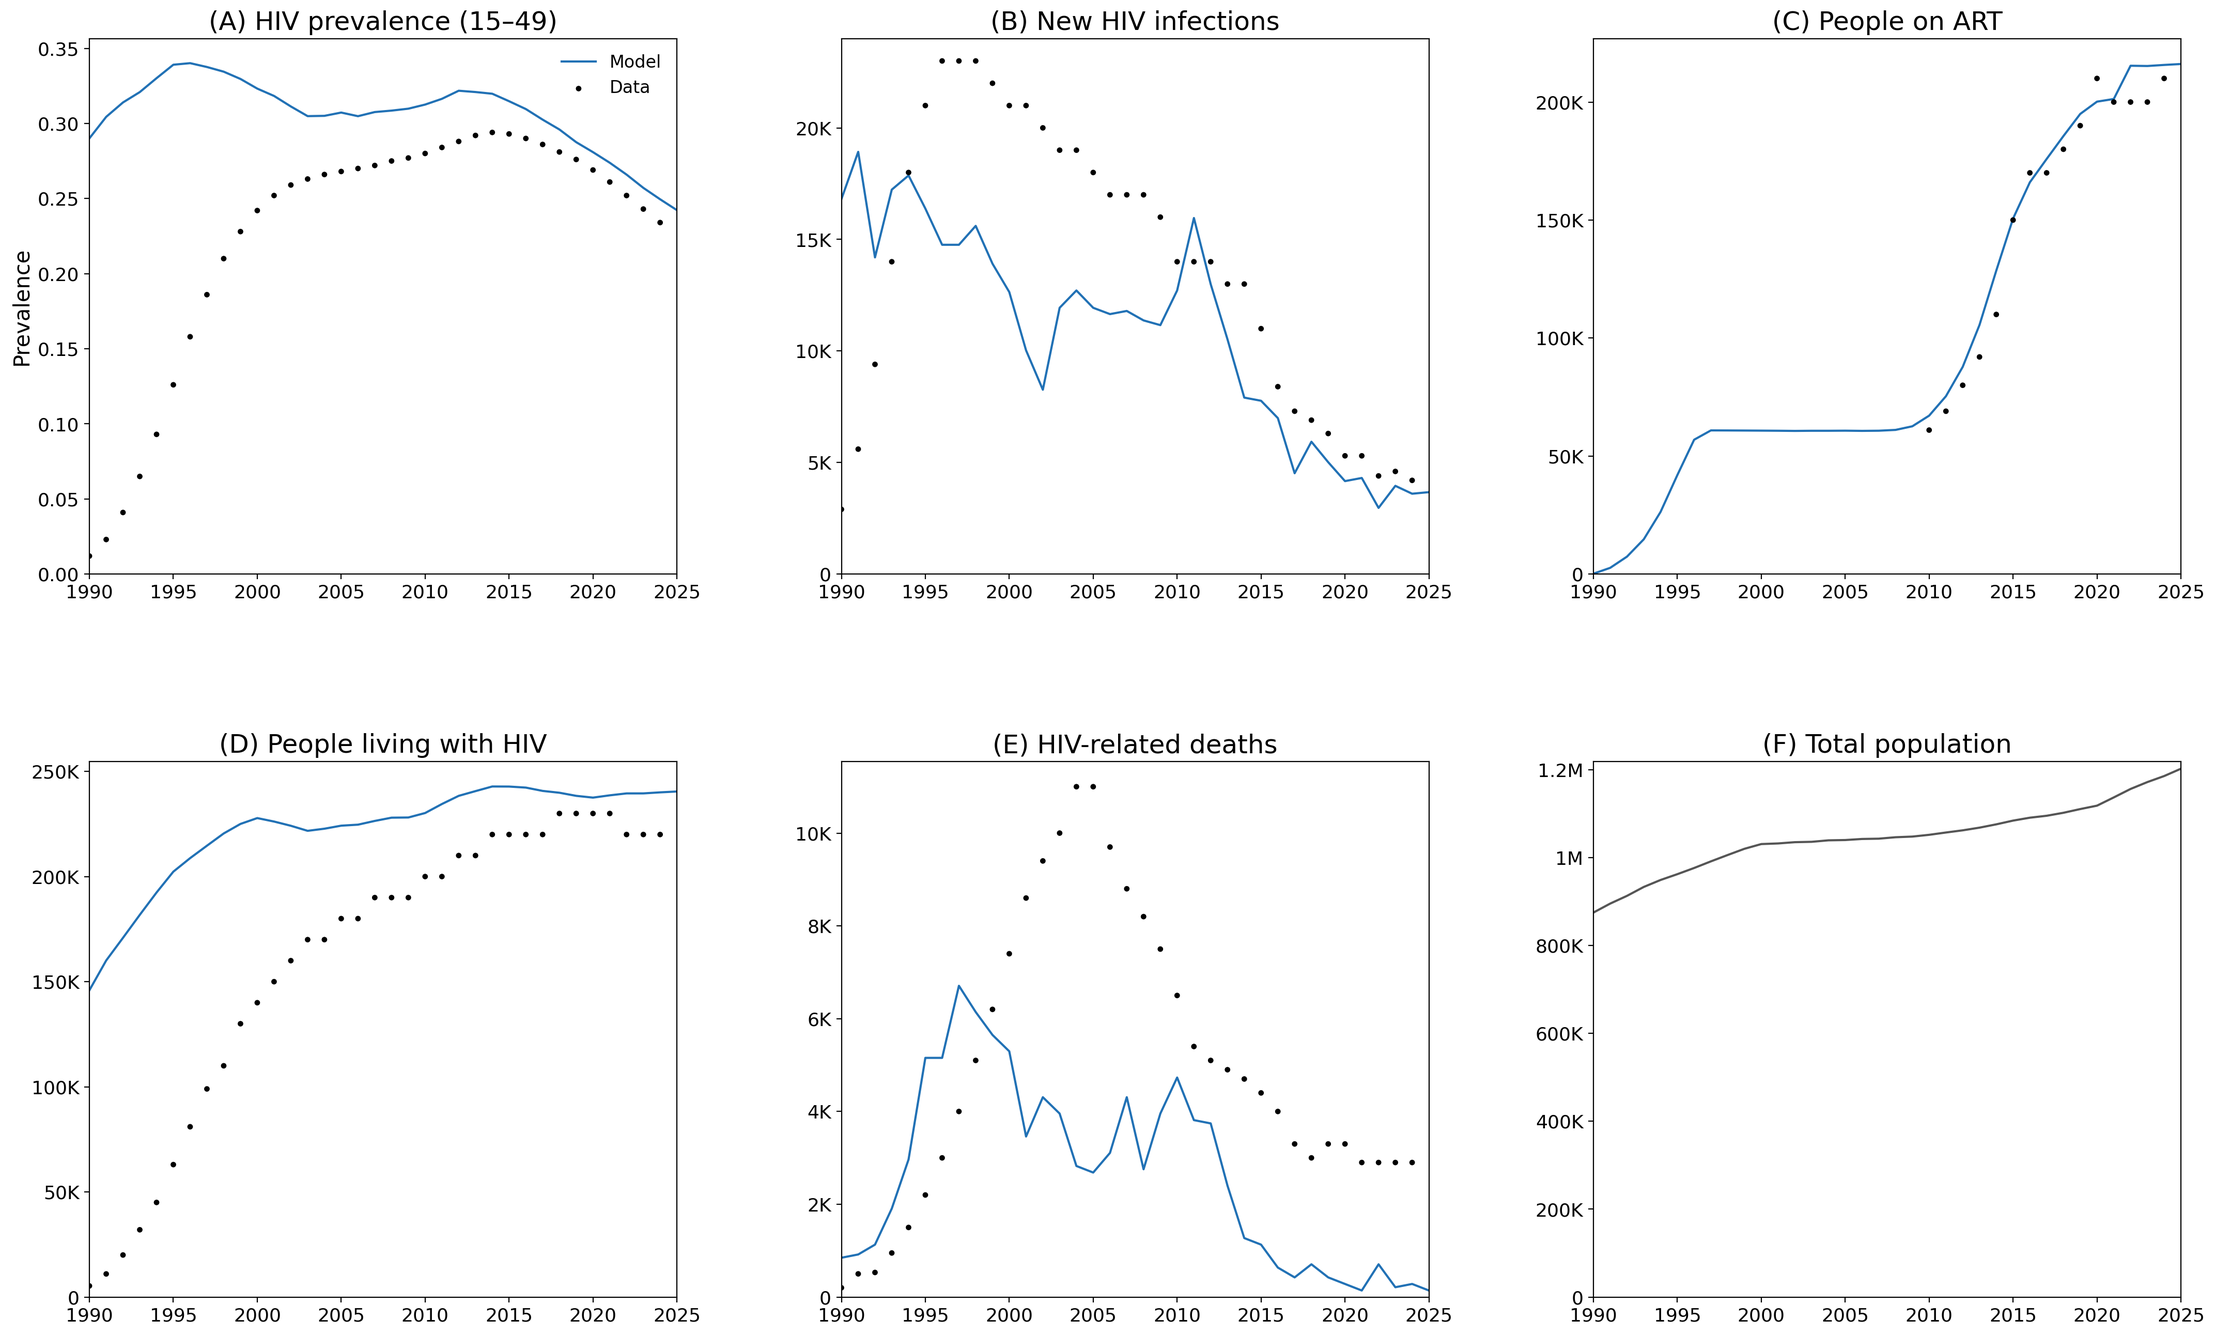
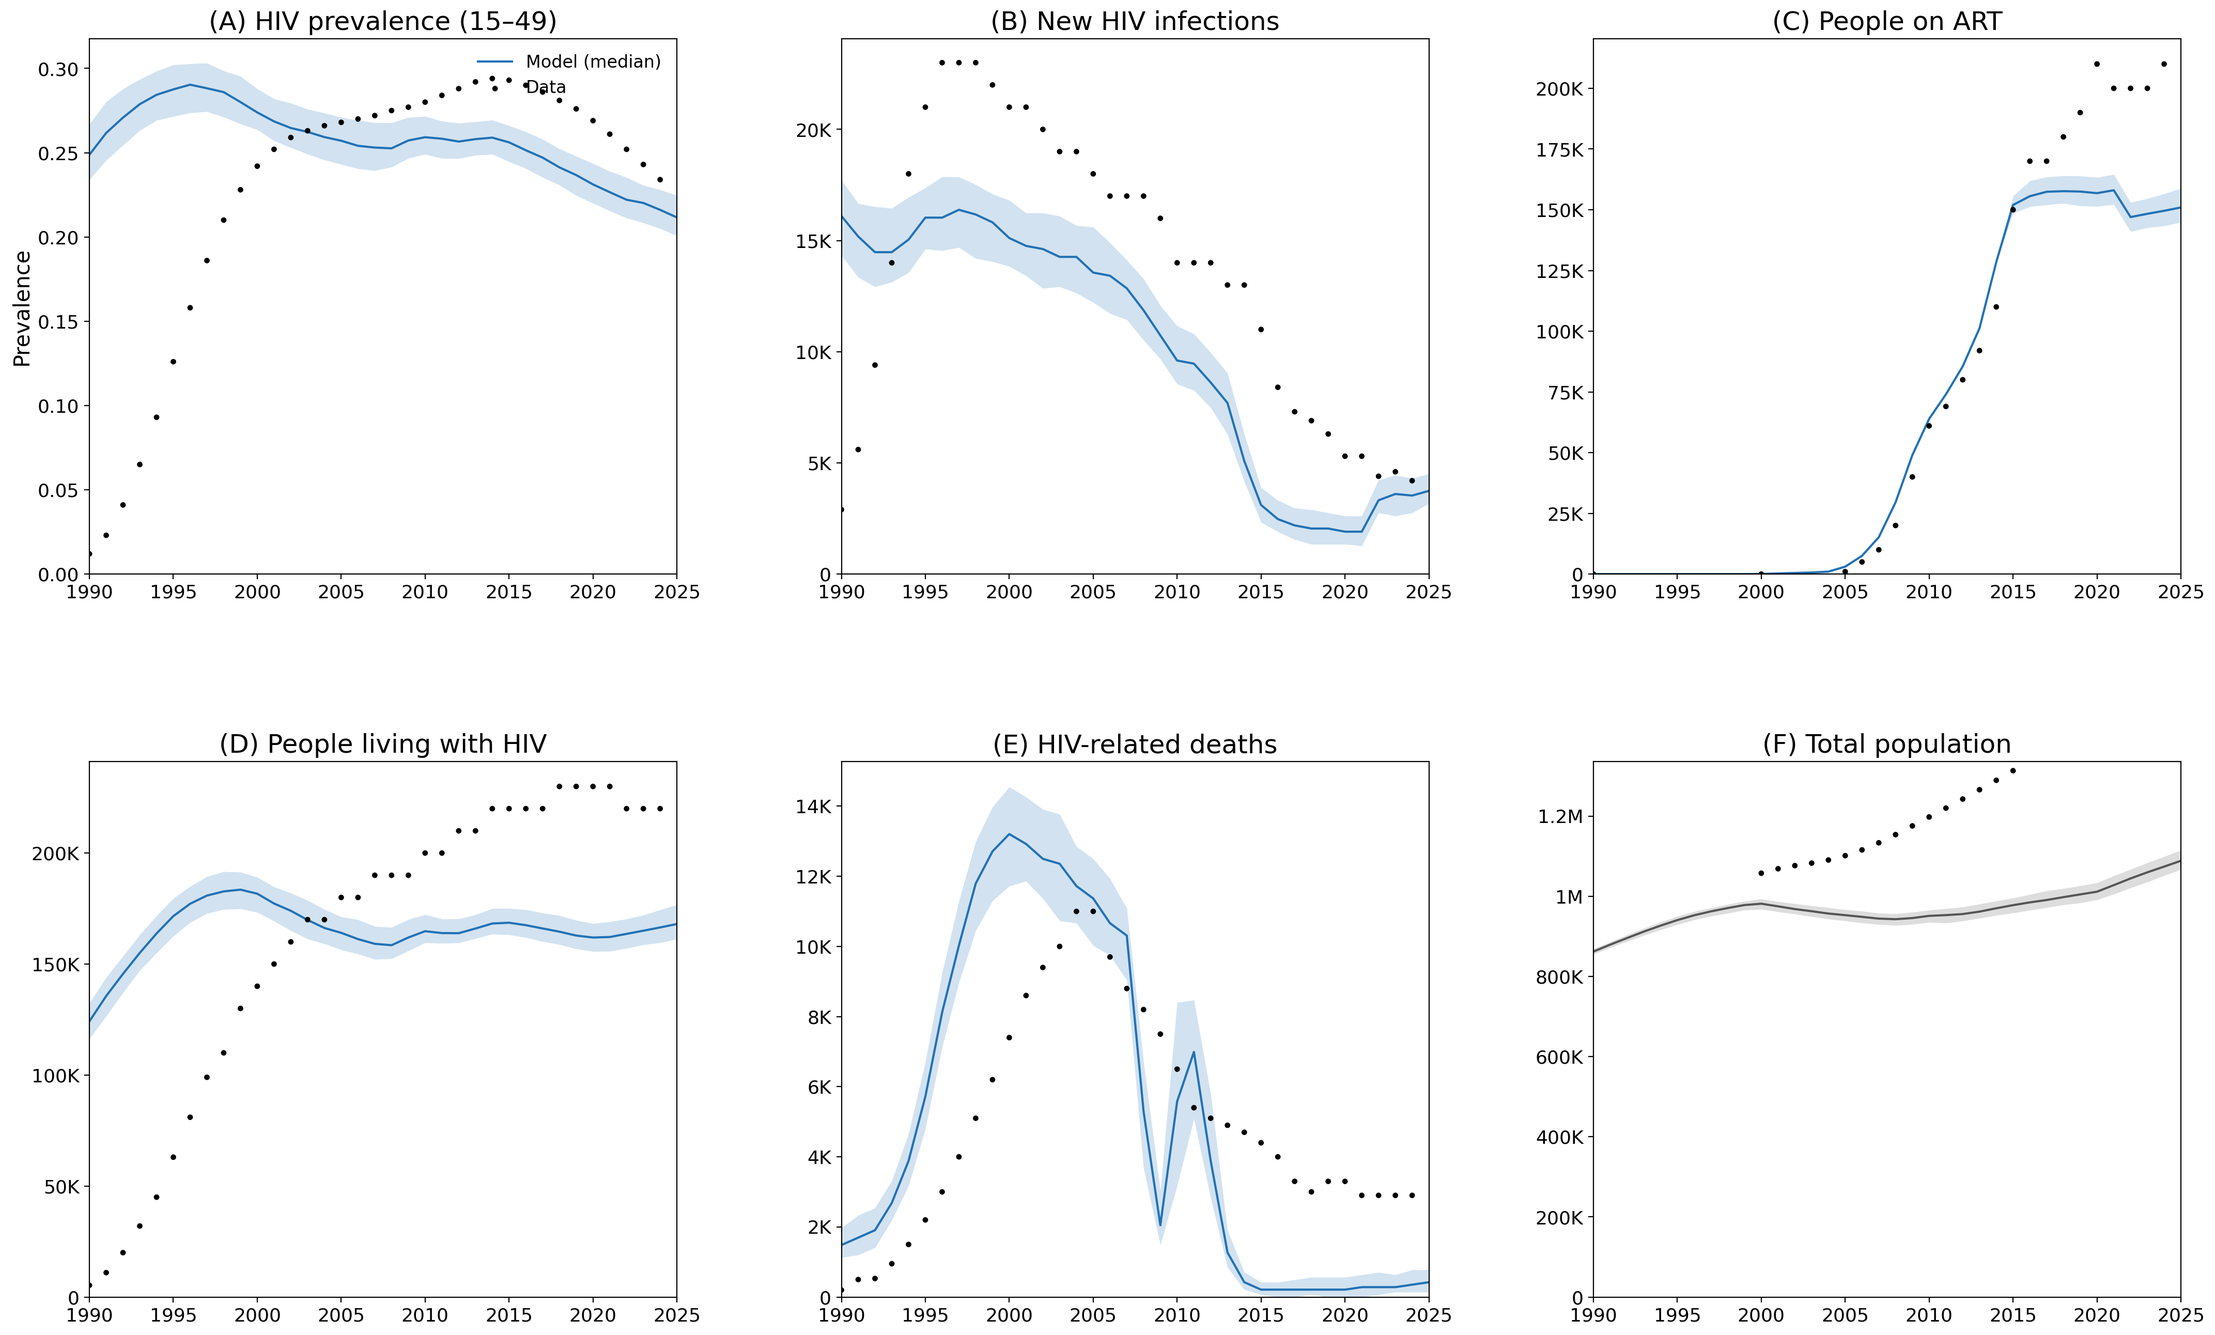
latest

diff --git a/plot_fig1_hiv_calibration.py b/plot_fig1_hiv_calibration.py
@@ -1,6 +1,8 @@
 """
 HIV calibration figure: model vs UNAIDS/survey data.
 
+Supports both single-sim (line) and multi-sim calibration stats (median + band).
+
 Panels:
     A: HIV prevalence (15-49)
     B: New HIV infections
@@ -17,6 +19,7 @@ import matplotlib.pyplot as plt
 from matplotlib.gridspec import GridSpec
 from utils import set_font
 
+LOCATION = 'eswatini'
 RESULTS_DIR = 'results'
 DATA_DIR = 'data'
 FIGURES_DIR = 'figures'
@@ -26,15 +29,33 @@ END_YEAR = 2025
 # Colors
 HIV_COLOR = '#2171b5'
 DATA_COLOR = 'k'
+BAND_ALPHA = 0.2
 
 
-def plot_panel(ax, sim_df, sim_col, data_df=None, data_col=None, title='',
+def plot_panel(ax, results, col, data_df=None, data_col=None, title='',
                color=HIV_COLOR, ylabel=None, si_ticks=False):
-    """Plot a single calibration panel with model line and data points."""
-    years = sim_df['timevec']
-    mask = (years >= START_YEAR) & (years <= END_YEAR)
+    """
+    Plot a single calibration panel with model band/line and data points.
 
-    ax.plot(years[mask], sim_df[sim_col][mask], color=color, linewidth=1.5, label='Model')
+    Args:
+        results: either a calib_stats DataFrame (multi-index columns with percentiles)
+                 or a single-sim DataFrame (flat columns, 'timevec' for time)
+    """
+    multi = isinstance(results.columns, pd.MultiIndex)  # Multi-sim vs single-sim
+
+    if multi:
+        years = results.index
+        mask = (years >= START_YEAR) & (years <= END_YEAR)
+        yrs = years[mask]
+        med = results.loc[yrs, (col, '50%')]
+        lo = results.loc[yrs, (col, '10%')]
+        hi = results.loc[yrs, (col, '90%')]
+        ax.fill_between(yrs, lo, hi, alpha=BAND_ALPHA, color=color, linewidth=0)
+        ax.plot(yrs, med, color=color, linewidth=1.5, label='Model (median)')
+    else:
+        years = results['timevec']
+        mask = (years >= START_YEAR) & (years <= END_YEAR)
+        ax.plot(years[mask], results[col][mask], color=color, linewidth=1.5, label='Model')
 
     if data_df is not None and data_col is not None and data_col in data_df.columns:
         d = data_df[['time', data_col]].dropna()
@@ -55,7 +76,13 @@ def plot_panel(ax, sim_df, sim_col, data_df=None, data_col=None, title='',
 
 if __name__ == '__main__':
 
-    sim_df = sc.loadobj(f'{RESULTS_DIR}/eswatini_sim.df')
+    # Load model results — either calibration stats (multi-sim) or single sim
+    use_calib = True
+    if use_calib:
+        results = sc.loadobj(f'{RESULTS_DIR}/{LOCATION}_calib_stats.df')  # Multi-sim: median + bands
+    else:
+        results = sc.loadobj(f'{RESULTS_DIR}/{LOCATION}_sim.df')  # Single sim: line only
+
     data = pd.read_csv(f'{DATA_DIR}/eswatini_hiv_calib.csv')
     art_data = pd.read_csv(f'{DATA_DIR}/n_art.csv').rename(columns={'year': 'time'})
 
@@ -66,33 +93,33 @@ if __name__ == '__main__':
 
     # (A) HIV prevalence 15-49
     ax = fig.add_subplot(gs[0, 0])
-    plot_panel(ax, sim_df, 'hiv.prevalence_15_49', data, 'hiv.prevalence_15_49',
+    plot_panel(ax, results, 'hiv.prevalence_15_49', data, 'hiv.prevalence_15_49',
                '(A) HIV prevalence (15\u201349)', ylabel='Prevalence')
     ax.legend(fontsize=12, loc='upper right', frameon=False)
 
     # (B) New infections
     ax = fig.add_subplot(gs[0, 1])
-    plot_panel(ax, sim_df, 'hiv.new_infections', data, 'hiv.new_infections',
+    plot_panel(ax, results, 'hiv.new_infections', data, 'hiv.new_infections',
                '(B) New HIV infections', si_ticks=True)
 
     # (C) People on ART
     ax = fig.add_subplot(gs[0, 2])
-    plot_panel(ax, sim_df, 'hiv.n_on_art', art_data, 'n_art',
+    plot_panel(ax, results, 'hiv.n_on_art', art_data, 'n_art',
                '(C) People on ART', si_ticks=True)
 
     # (D) People living with HIV
     ax = fig.add_subplot(gs[1, 0])
-    plot_panel(ax, sim_df, 'hiv.n_infected', data, 'hiv.n_infected',
+    plot_panel(ax, results, 'hiv.n_infected', data, 'hiv.n_infected',
                '(D) People living with HIV', si_ticks=True)
 
     # (E) HIV-related deaths
     ax = fig.add_subplot(gs[1, 1])
-    plot_panel(ax, sim_df, 'hiv.new_deaths', data, 'hiv.new_deaths',
+    plot_panel(ax, results, 'hiv.new_deaths', data, 'hiv.new_deaths',
                '(E) HIV-related deaths', si_ticks=True)
 
     # (F) Total population
     ax = fig.add_subplot(gs[1, 2])
-    plot_panel(ax, sim_df, 'n_alive', None, None,
+    plot_panel(ax, results, 'n_alive', data, 'n_alive',
                '(F) Total population', color='#555555', si_ticks=True)
 
     plt.savefig(f'{FIGURES_DIR}/fig1_hiv_calibration.png', dpi=200, bbox_inches='tight')

diff --git a/utils.py b/utils.py
@@ -81,6 +81,7 @@ def extract_unaids(unaids_dir='raw_data/UNAIDS', country='Eswatini'):
 def format_calibration_data(prev_file='raw_data/SWAZILAND_nationalprevalence_all_updatedPHIA3.csv',
                             inc_file='raw_data/Swaziland_Incidence_Data2.csv',
                             unaids_dir='raw_data/UNAIDS',
+                            pop_file='raw_data/Swaziland_Population_Counts.xlsx',
                             outfile='data/eswatini_hiv_calib.csv'):
     """
     Read raw prevalence, incidence, and UNAIDS data and format for STIsim calibration.
@@ -162,8 +163,14 @@ def format_calibration_data(prev_file='raw_data/SWAZILAND_nationalprevalence_all
     inc_df = pd.DataFrame.from_dict(inc_rows, orient='index')
     inc_df.index.name = 'time'
 
+    # --- Population counts ---
+    print('Reading population data...')
+    pop = pd.read_excel(pop_file)
+    pop_df = pop.groupby('Year')['Population'].sum().rename('n_alive')
+    pop_df.index.name = 'time'
+
     # --- Combine all sources ---
-    calib = unaids_df.join(prev_df, how='outer').join(inc_df, how='outer')
+    calib = unaids_df.join(prev_df, how='outer').join(inc_df, how='outer').join(pop_df, how='outer')
     calib = calib.sort_index().reset_index()
 
     # Reorder columns: time, native hiv results, then analyzer results

diff --git a/run_sims.py b/run_sims.py
@@ -42,10 +42,10 @@ def make_sim(seed=1, start=1985, stop=2031, verbose=1/12, analyzers=None):
 
     # Diseases
     hiv = sti.HIV(
-        beta_m2f=0.02,
+        beta_m2f=0.01,
         eff_condom=0.85,
         init_prev_data=pd.read_csv('data/init_prev_hiv.csv'),
-        # rel_init_prev=8.,
+        rel_init_prev=.1,
     )
 
     # Interventions
@@ -83,7 +83,7 @@ if __name__ == '__main__':
 
     sim = make_sim(stop=2031, seed=seed)
     sim.run()
-    sim.plot('hiv')
+    sim.plot('hiv', annualize=True)
 
     df = sim.to_df(resample='year', use_years=True, sep='.')
     sc.saveobj(f'results/{LOCATION}_sim.df', df)

diff --git a/run_calibrations.py b/run_calibrations.py
@@ -40,7 +40,7 @@ def make_calibration():
         hiv=dict(
             beta_m2f=      dict(low=0.002, high=0.014, guess=0.006, **ckw),
             eff_condom=    dict(low=0.5, high=0.9, guess=0.75, **ckw),
-            rel_init_prev= dict(low=2, high=15, guess=8, **ckw),
+            # rel_init_prev= dict(low=2, high=15, guess=8, **ckw),
             rel_dur_on_art=dict(low=1.0, high=20.0, guess=8.0, **ckw),
         ),
         structuredsexual=dict(

diff --git a/README.md b/README.md
@@ -2,45 +2,139 @@
 
 Agent-based HIV model for Eswatini, built on [STIsim](https://github.com/starsimhub/stisim) and [Starsim](https://github.com/starsimhub/starsim).
 
-## Setup
+The model includes a structured sexual network with risk groups, HIV transmission, testing (FSW-targeted, general population, low-CD4), ART, and PrEP. It is calibrated to UNAIDS estimates and PHIA household survey data.
 
-```bash
-pip install stisim
-```
 
-## Usage
+## Prerequisites
 
-```bash
-# Run a single simulation
-python run_sims.py
+1. **Python 3.9+** (we recommend [Miniforge](https://github.com/conda-forge/miniforge))
 
-# Generate calibration data from raw UNAIDS/PHIA sources
-python utils.py
+2. **Install Starsim and STIsim** by cloning and installing locally:
+   ```bash
+   git clone https://github.com/starsimhub/starsim.git
+   cd starsim
+   pip install -e .
+   cd ..
 
-# Generate network structure data (needed for Fig 3)
-python run_network_data.py
+   git clone https://github.com/starsimhub/stisim.git
+   cd stisim
+   pip install -e .
+   cd ..
+   ```
 
-# Plot figures
-python plot_fig1_hiv_calibration.py   # HIV epi: prevalence, infections, ART, deaths
-python plot_fig2_hiv_by_age.py        # HIV prevalence by age/sex vs PHIA surveys
-python plot_fig3_network.py           # Network structure: partners, mixing, risk groups
-```
+   Installing with `-e` (editable mode) means changes to the source code take effect immediately without reinstalling.
 
-## Structure
+3. **Clone this repo**:
+   ```bash
+   git clone https://github.com/starsimhub/hivsim_eswatini.git
+   cd hivsim_eswatini
+   ```
 
-| File | Description |
-|------|-------------|
-| `run_sims.py` | `make_sim()` and single-sim runner |
-| `interventions.py` | HIV testing, ART, PrEP |
-| `analyzers.py` | `NetworkSnapshot` for network figure |
-| `utils.py` | Data formatting (UNAIDS/PHIA → calibration CSV) |
-| `data/` | Processed data (calibration targets, ART coverage, condom use) |
-| `raw_data/` | Source data (UNAIDS Excel, PHIA surveys, demographics) |
-| `results/` | Simulation outputs |
-| `figures/` | Generated figures |
+4. **Raw data** (not tracked in git): place the `raw_data/` folder in the repo root. This contains UNAIDS Excel files, PHIA survey CSVs, and population data. Ask the project lead for access.
+
+5. **IDE setup**: We recommend [VS Code](https://code.visualstudio.com/) with the Python and [Claude Code](https://marketplace.visualstudio.com/items?itemName=anthropics.claude-code) extensions. Open the `hivsim_eswatini` folder as your workspace. You can run any script by opening it and pressing the play button, or by using the integrated terminal.
+
+
+## Workflow
+
+The scripts are designed to be run in order. Each step produces outputs used by the next.
+
+### Step 1: Generate calibration data (only needed once, or when raw data changes)
+
+Run `utils.py`.
+
+This reads raw UNAIDS and PHIA data from `raw_data/` and produces `data/eswatini_hiv_calib.csv` — a single CSV with one row per year and columns matching the sim's result names. The calibrator uses this file to compute goodness-of-fit.
+
+### Step 2: Run a single simulation (for quick testing)
+
+Run `run_sims.py`.
+
+Runs one sim with default parameters and saves results to `results/eswatini_sim.df`. Also opens a plot window showing HIV dynamics. Use this to check that the model is working before calibrating.
+
+### Step 3: Calibrate the model
+
+Run `run_calibrations.py`.
+
+Runs 1000 Optuna trials, each testing a different combination of parameters (transmission rate, condom efficacy, network structure, ART duration). Saves:
+- `results/eswatini_calib.obj` — full calibration object
+- `results/eswatini_pars.df` — dataframe of best-fit parameter sets
+
+The calibration parameters and their ranges are defined in `make_calibration()` inside `run_calibrations.py`. To add or modify calibrated parameters, edit the `calib_pars` dictionary there.
+
+### Step 4: Run multi-sim with calibrated parameters
+
+Run `run_msim.py`.
+
+Takes the top 200 parameter sets from calibration, runs a sim for each, and generates percentile statistics (median, 10-90% credible intervals). Saves `results/eswatini_calib_stats.df`.
+
+### Step 5: Generate figures
+
+Run the plotting scripts:
+- `plot_fig1_hiv_calibration.py` — Fig 1: HIV epi (6 panels) — model bands vs UNAIDS data
+- `plot_fig2_hiv_by_age.py` — Fig 2: prevalence by age/sex vs PHIA surveys
+- `run_network_data.py` — extract network data (needed once before Fig 3)
+- `plot_fig3_network.py` — Fig 3: network structure (6 panels)
+
+Figures are saved to `figures/` at 200 dpi.
+
+
+## File descriptions
+
+### Scripts
+
+| File | Purpose |
+|------|---------|
+| `run_sims.py` | `make_sim()` — the central function that builds the simulation. All other scripts import this. Also runs a single sim when executed directly. |
+| `run_calibrations.py` | Calibrate model parameters to match UNAIDS/PHIA data using Optuna. |
+| `run_msim.py` | Run the top calibrated parameter sets and generate summary statistics with credible intervals. |
+| `run_network_data.py` | Run sims with network analyzers and extract structure data for plotting. |
+| `plot_fig1_hiv_calibration.py` | HIV calibration figure: prevalence, infections, ART, PLHIV, deaths, population. Supports single-sim (line) or multi-sim (median + band). Set `use_calib = True/False` in the `__main__` block. |
+| `plot_fig2_hiv_by_age.py` | HIV prevalence by age and sex, compared to PHIA survey data (2007, 2011, 2016, 2021). |
+| `plot_fig3_network.py` | Network structure: lifetime partners, age mixing, risk groups, debut age, partnerships, condom use. |
+
+### Modules
+
+| File | Purpose |
+|------|---------|
+| `interventions.py` | HIV testing strategies (FSW, general pop, low-CD4), ART, PrEP. |
+| `analyzers.py` | `hiv_epi` — tracks age-specific prevalence/incidence/counts for UNAIDS and PHIA age ranges. `NetworkSnapshot` — captures network properties at a point in time. |
+| `utils.py` | `format_calibration_data()` — reads raw UNAIDS Excel + PHIA CSVs and produces the calibration target CSV. `set_font()` — plot styling helper. |
+
+### Data
+
+| File | Contents |
+|------|----------|
+| `data/eswatini_hiv_calib.csv` | Calibration targets (generated by `utils.py`). Columns prefixed `hiv.` are native sim results; columns prefixed `hiv_epi.` come from the `hiv_epi` analyzer. |
+| `data/n_art.csv` | Number of people on ART by year (1990–2024). Used by the ART intervention and for plotting. |
+| `data/condom_use.csv` | Condom use probability by partnership type and year. Input to the sexual network. |
+| `data/init_prev_hiv.csv` | Initial HIV prevalence by risk group, sex, and SW status. Seeds the epidemic at sim start. |
+| `data/eswatini_*.csv` | Demographics: age distribution, fertility (ASFR), death rates, migration. Loaded automatically when `demographics='eswatini'`. |
+
+### Raw data (not in git)
+
+| Folder | Contents |
+|--------|----------|
+| `raw_data/UNAIDS/` | 16 Excel files with country-level HIV estimates (prevalence, incidence, deaths, PLHIV by age). |
+| `raw_data/SWAZILAND_nationalprevalence_*.csv` | PHIA survey data: HIV prevalence by age, sex, and year (2007, 2011, 2016, 2021). |
+| `raw_data/Swaziland_Incidence_Data2.csv` | PHIA incidence estimates by sex (2011, 2016, 2021). |
+| `raw_data/Swaziland_Population_Counts.xlsx` | Census population by age/sex/year (2000–2015). |
+| `raw_data/n_art.xlsx`, `raw_data/p_art.xlsx` | ART coverage source data. |
+
+
+## Key concepts
+
+**How the sim works**: The model creates ~10,000 agents representing the population of Eswatini. Each agent has an age, sex, and risk group. Agents form sexual partnerships through a structured network, and HIV transmits through these contacts. The sim runs in monthly timesteps from 1985 to ~2030. Results are scaled up to the national population automatically.
+
+**Calibration data column naming**: The calibration CSV column names must exactly match what `sim.to_df(sep='.')` produces. Native disease results use the `hiv.` prefix (e.g., `hiv.prevalence_15_49`). Results from the `hiv_epi` analyzer use the `hiv_epi.` prefix (e.g., `hiv_epi.n_infected_15_49`). If you add a new indicator, make sure the column name in the CSV matches the result name in the sim output.
+
+**Age bins**: The HIV disease module natively tracks 5-year bins from 15-35, plus wider bins (35-50, 50-65, 65-100). The `hiv_epi` analyzer adds finer 5-year bins above 35 (to match PHIA surveys) and broader UNAIDS ranges (0-14, 10-19, 15-24, 15-49, 15-100).
+
+**Adding a new calibration target**: (1) Add the raw data to `raw_data/`, (2) update `format_calibration_data()` in `utils.py` to include it with the correct column name, (3) re-run `utils.py`, (4) if the indicator isn't already a sim result, add it to the `hiv_epi` analyzer in `analyzers.py`.
+
 
 ## Data sources
 
 - **UNAIDS**: HIV prevalence, incidence, deaths, PLHIV counts (1990–2024)
-- **PHIA surveys**: Age/sex-specific HIV prevalence (2007, 2011, 2016, 2021)
-- **ART coverage**: National ART numbers (2010–2024)
+- **PHIA surveys**: Age/sex-specific HIV prevalence with 95% CIs (2007, 2011, 2016, 2021)
+- **ART coverage**: National ART numbers (1990–2024)
+- **Census**: Population counts by age/sex (2000–2015)
